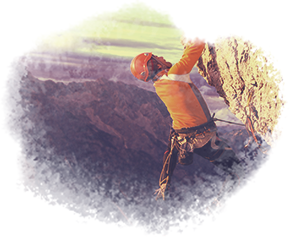
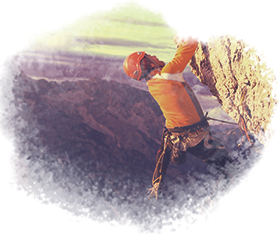
Roadmap mobile 1. Добавлено: класс container для блока Roadmap; 2. Добавлено: изображение для фона для tablet и desktop; 3. Изменено: обрезаны изображения блока Roadmap; 4. Изменено: фон для заголовка; 5. Изменено: внутренние и внешние отступы в соответствии с макетом; 6. Изменено: привязка фоновых 

diff --git a/source/components/roadmap/roadmap.html b/source/components/roadmap/roadmap.html
@@ -1,21 +1,23 @@
 <section class="roadmap">
-  <h2 class="title roadmap__title">Что вас ждёт</h2>
-  <ul class="list roadmap__list">
-    <li class="roadmap__item roadmap__item_1">
-      <h3 class="roadmap__subtitle">Спецзнания</h3>
-      <p class="roadmap__text">За 3 дня спецкурса вы получите знания, которым обучают военных, альпинистов, спасателей.</p>
-    </li>
-    <li class="roadmap__item roadmap__item_2">
-      <h3 class="roadmap__subtitle">Спецнавыки</h3>
-      <p class="roadmap__text">3 дня в лесу, без палаток, зажигалок и любых других гаджетов, которые облегчали бы жизнь.</p>
-    </li>
-    <li class="roadmap__item roadmap__item_3">
-      <h3 class="roadmap__subtitle">Экстрим</h3>
-      <p class="roadmap__text">Смоделированные экстремальные ситуации, максимально приближенные к реальности. Вам придётся спасать утопающих из воды, спускаться по верёвке по отвесным скалам, добывать воду, жить в шалашах и землянках.</p>
-    </li>
-    <li class="roadmap__item roadmap__item_4">
-      <h3 class="roadmap__subtitle">Постоянный стресс</h3>
-      <p class="roadmap__text">Участникам предстоит преодолевая себя действовать в стрессовой обстановке, применять на практике полученные ранее знания.</p>
-    </li>
-  </ul>
+  <div class="container">
+    <h2 class="title roadmap__title">Что вас ждёт</h2>
+    <ul class="list roadmap__list">
+      <li class="roadmap__item roadmap__item_1">
+        <h3 class="roadmap__subtitle">Спецзнания</h3>
+        <p class="roadmap__text">За 3 дня спецкурса вы получите знания, которым обучают военных, альпинистов, спасателей.</p>
+      </li>
+      <li class="roadmap__item roadmap__item_2">
+        <h3 class="roadmap__subtitle">Спецнавыки</h3>
+        <p class="roadmap__text">3 дня в лесу, без палаток, зажигалок и любых других гаджетов, которые облегчали бы жизнь.</p>
+      </li>
+      <li class="roadmap__item roadmap__item_3">
+        <h3 class="roadmap__subtitle">Экстрим</h3>
+        <p class="roadmap__text">Смоделированные экстремальные ситуации, максимально приближенные к реальности. Вам придётся спасать утопающих из воды, спускаться по верёвке по отвесным скалам, добывать воду, жить в шалашах и землянках.</p>
+      </li>
+      <li class="roadmap__item roadmap__item_4">
+        <h3 class="roadmap__subtitle">Постоянный стресс</h3>
+        <p class="roadmap__text">Участникам предстоит преодолевая себя действовать в стрессовой обстановке, применять на практике полученные ранее знания.</p>
+      </li>
+    </ul>
+  </div>
 </section>

diff --git a/source/components/roadmap/roadmap.scss b/source/components/roadmap/roadmap.scss
@@ -1,22 +1,20 @@
 .roadmap {
-  padding: 0 10px;
-
   &__title {
     position: relative;
 
-    margin: 0 0 120px 0;
+    margin: 0 0 100px 0;
 
-    line-height: 87px;
+    line-height: 134px;
 
-    background: url(./../images/roadmap__title-cover.png) center 10px no-repeat;
+    background: url(./../images/roadmap__title-cover.png) center no-repeat;
 
     &::before {
       @include checkpoint;
 
       content: "";
       position: absolute;
-      top: 140px;
-      left: 150px;
+      top: 170px;
+      left: calc(50% - 15px);
 
       display: block;
       height: 30px;
@@ -26,8 +24,8 @@
     &::after {
       content: "Start";
       position: absolute;
-      top: 110px;
-      left: 135px;
+      top: 140px;
+      left: calc(50% - 30px);
 
       font: 24px "CoreSansE-35Light";
       color: #ff0000;
@@ -38,7 +36,7 @@
   &__list {
     position: relative;
 
-    margin: 0 0 30px 0;
+    margin: 0 0 130px 0;
 
     text-align: center;
 
@@ -47,8 +45,8 @@
 
       content: "";
       position: absolute;
-      bottom: 30px;
-      left: 135px;
+      bottom: -70px;
+      left: calc(50% - 15px);
 
       display: block;
       height: 30px;
@@ -57,6 +55,10 @@
 
     &::after {
       content: "Finish";
+      position: absolute;
+      bottom: 0;
+      bottom: -100px;
+      left: calc(50% - 30px);
 
       font: 24px "CoreSansE-35Light";
       color: #ff0000;
@@ -73,7 +75,7 @@
     content: "";
 
     display: block;
-    margin: 0 auto;
+    margin: 0 auto 20px;
   }
 
   &__item_2::before {
@@ -82,7 +84,7 @@
     content: "";
 
     display: block;
-    margin: 0 auto;
+    margin: 0 auto 20px;
   }
 
   &__item_3::before {
@@ -91,7 +93,7 @@
     content: "";
 
     display: block;
-    margin: 0 auto;
+    margin: 0 auto 20px;
   }
 
   &__item_4::before {
@@ -100,11 +102,17 @@
     content: "";
 
     display: block;
-    margin: 0 auto;
+    margin: 0 auto 20px;
   }
 
   &__subtitle {
+    margin: 0 0 20px;
+
     font: 20px "CoreSansE-65Bold";
     letter-spacing: 1px;
+  }
+
+  &__text {
+    margin: 0;
   }
 }

diff --git a/source/styles/helpers/spritePng.scss b/source/styles/helpers/spritePng.scss
@@ -16,7 +16,7 @@
   height: 555px;
   width: 54px;
 
-  background: url("./../images/sprites/sprite.png") 0px -2148px no-repeat;
+  background: url("./../images/sprites/sprite.png") 0px -2136px no-repeat;
 }
 
 @mixin knowledge_01 {
@@ -62,37 +62,37 @@
 }
 
 @mixin roadmap_1 {
-  height: 237px;
-  width: 290px;
+  height: 234px;
+  width: 280px;
 
   background: url("./../images/sprites/sprite.png") 0px -645px no-repeat;
 }
 
 @mixin roadmap_2 {
-  height: 243px;
-  width: 291px;
+  height: 234px;
+  width: 284px;
 
-  background: url("./../images/sprites/sprite.png") 0px -1123px no-repeat;
+  background: url("./../images/sprites/sprite.png") 0px -879px no-repeat;
 }
 
 @mixin roadmap_3 {
   height: 327px;
   width: 293px;
 
-  background: url("./../images/sprites/sprite.png") 0px -1366px no-repeat;
+  background: url("./../images/sprites/sprite.png") 0px -1354px no-repeat;
 }
 
 @mixin roadmap_4 {
   height: 241px;
   width: 294px;
 
-  background: url("./../images/sprites/sprite.png") 0px -882px no-repeat;
+  background: url("./../images/sprites/sprite.png") 0px -1113px no-repeat;
 }
 
 @mixin security__list {
   height: 455px;
   width: 50px;
 
-  background: url("./../images/sprites/sprite.png") 0px -1693px no-repeat;
+  background: url("./../images/sprites/sprite.png") 0px -1681px no-repeat;
 }
 
